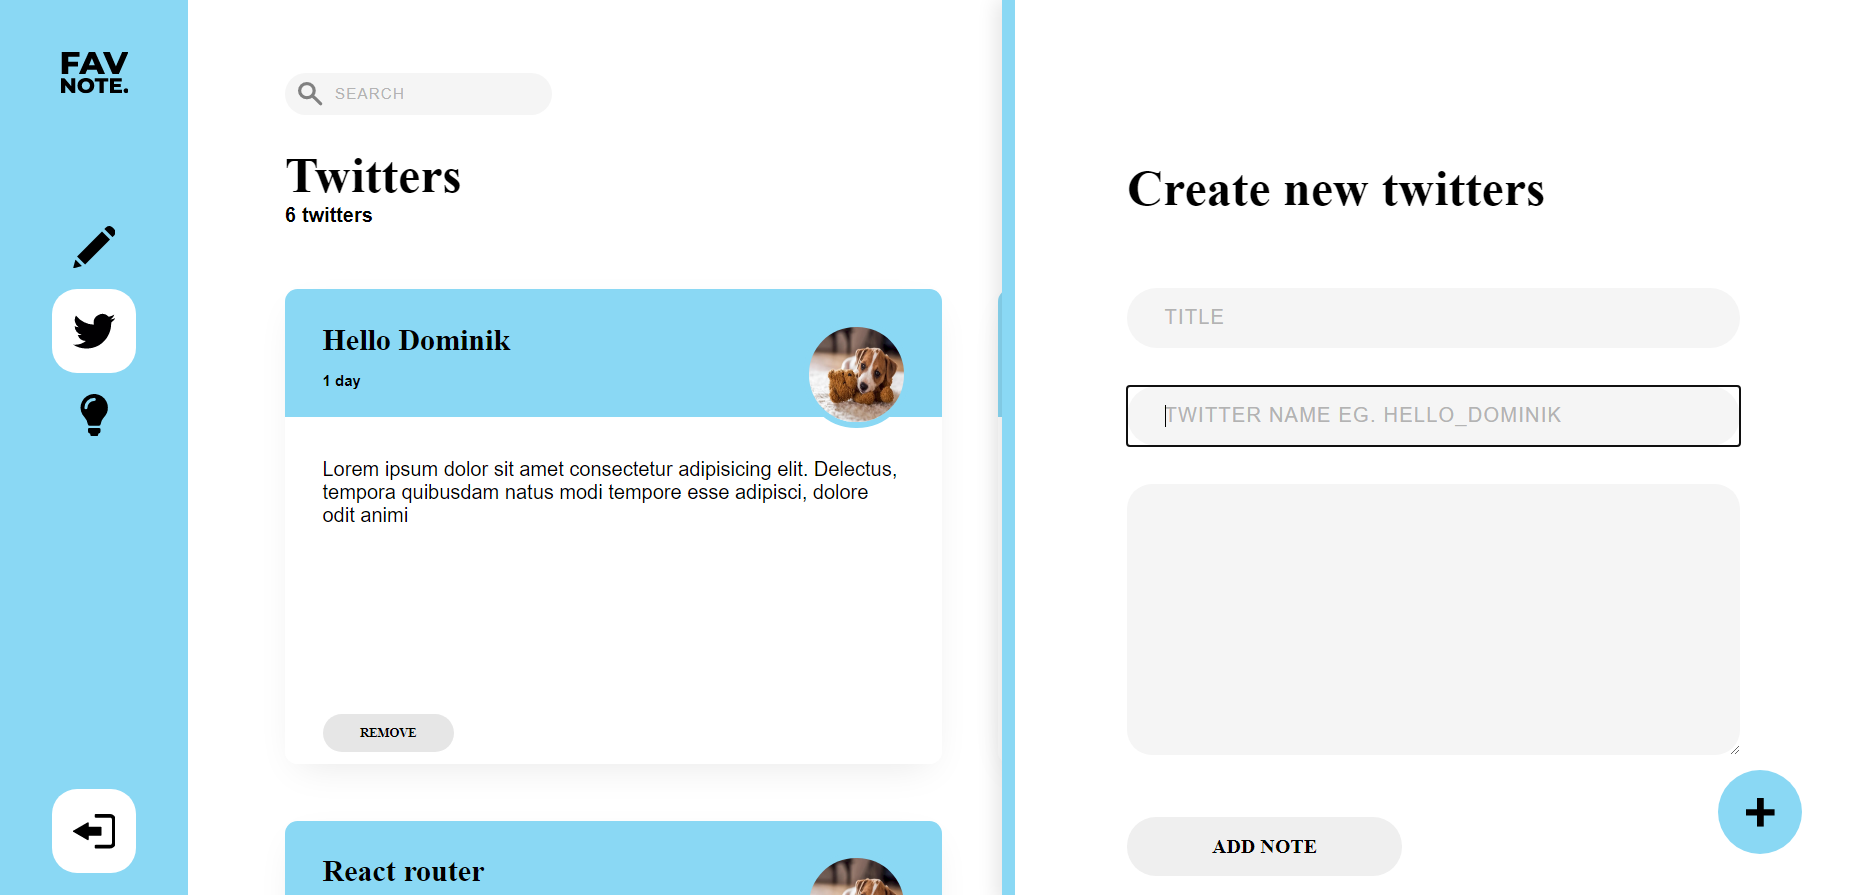
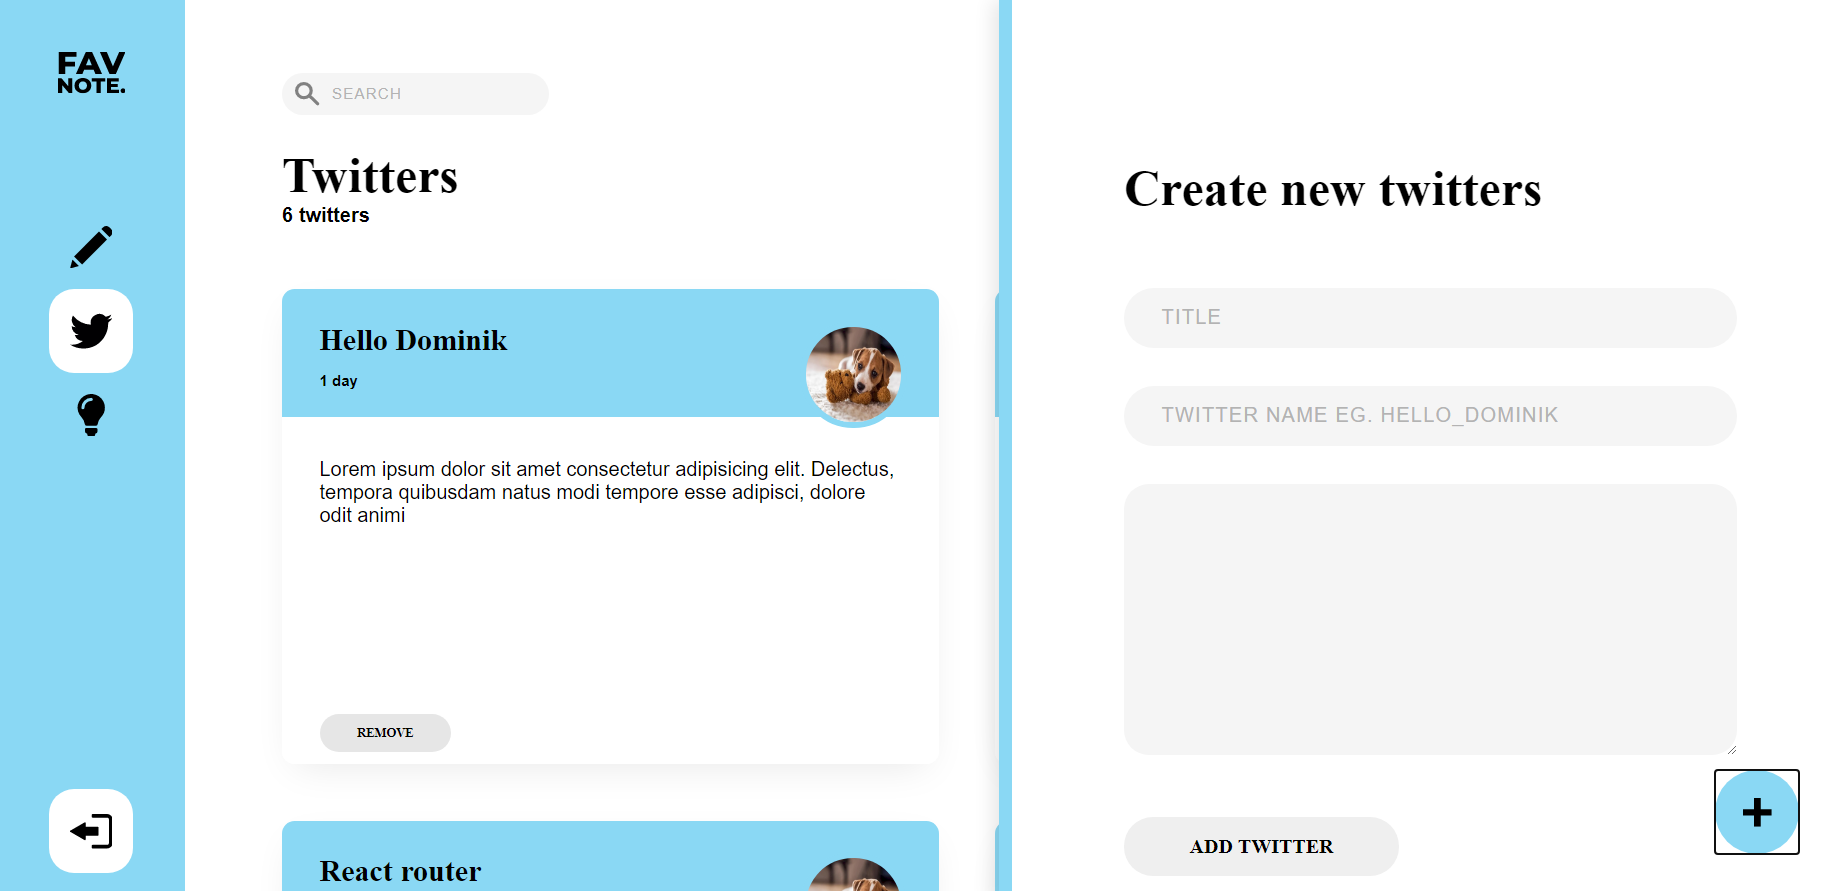
Corrections about screens

diff --git a/.history/src/components/organisms/NewItemBar/NewItemBar_20200706083004.js b/.history/src/components/organisms/NewItemBar/NewItemBar_20200706083004.js
@@ -93,11 +93,6 @@ const NewItemBar = ({ pageContext, isVisible, addItem, handleClose }) => (
               Add Twitter
             </Button>
           )}
-          {pageContext === 'articles' && (
-            <Button type="submit" activecolor={pageContext}>
-              Add Article
-            </Button>
-          )}
         </StyledForm>
       )}
     </Formik>
